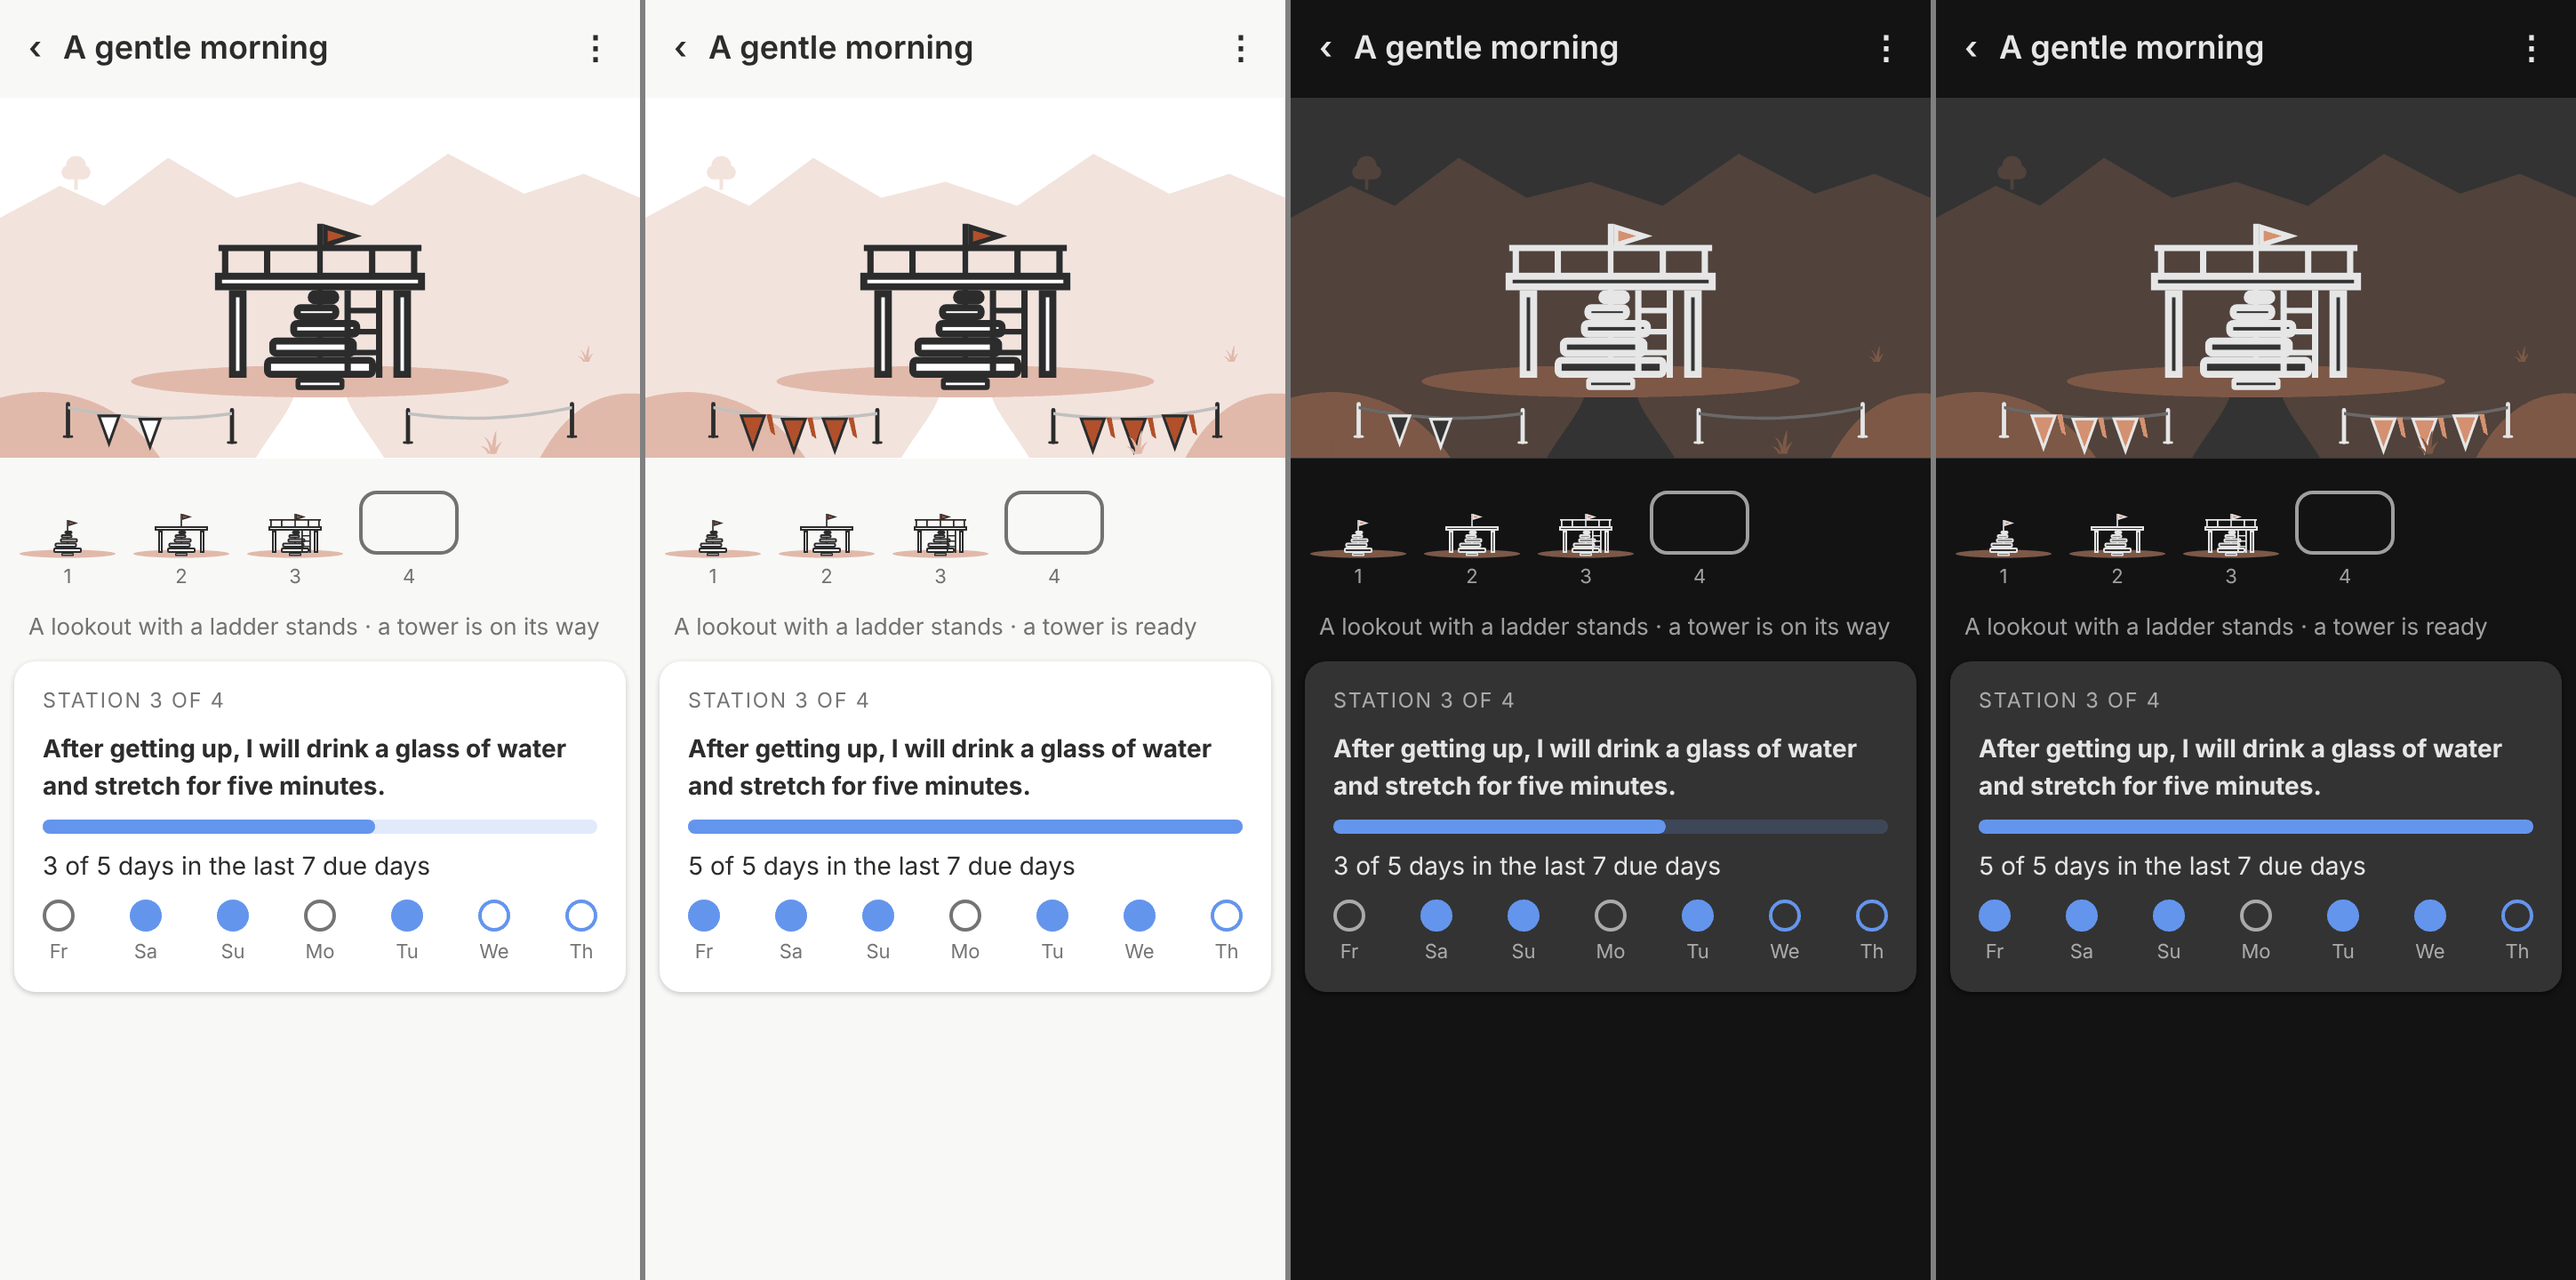
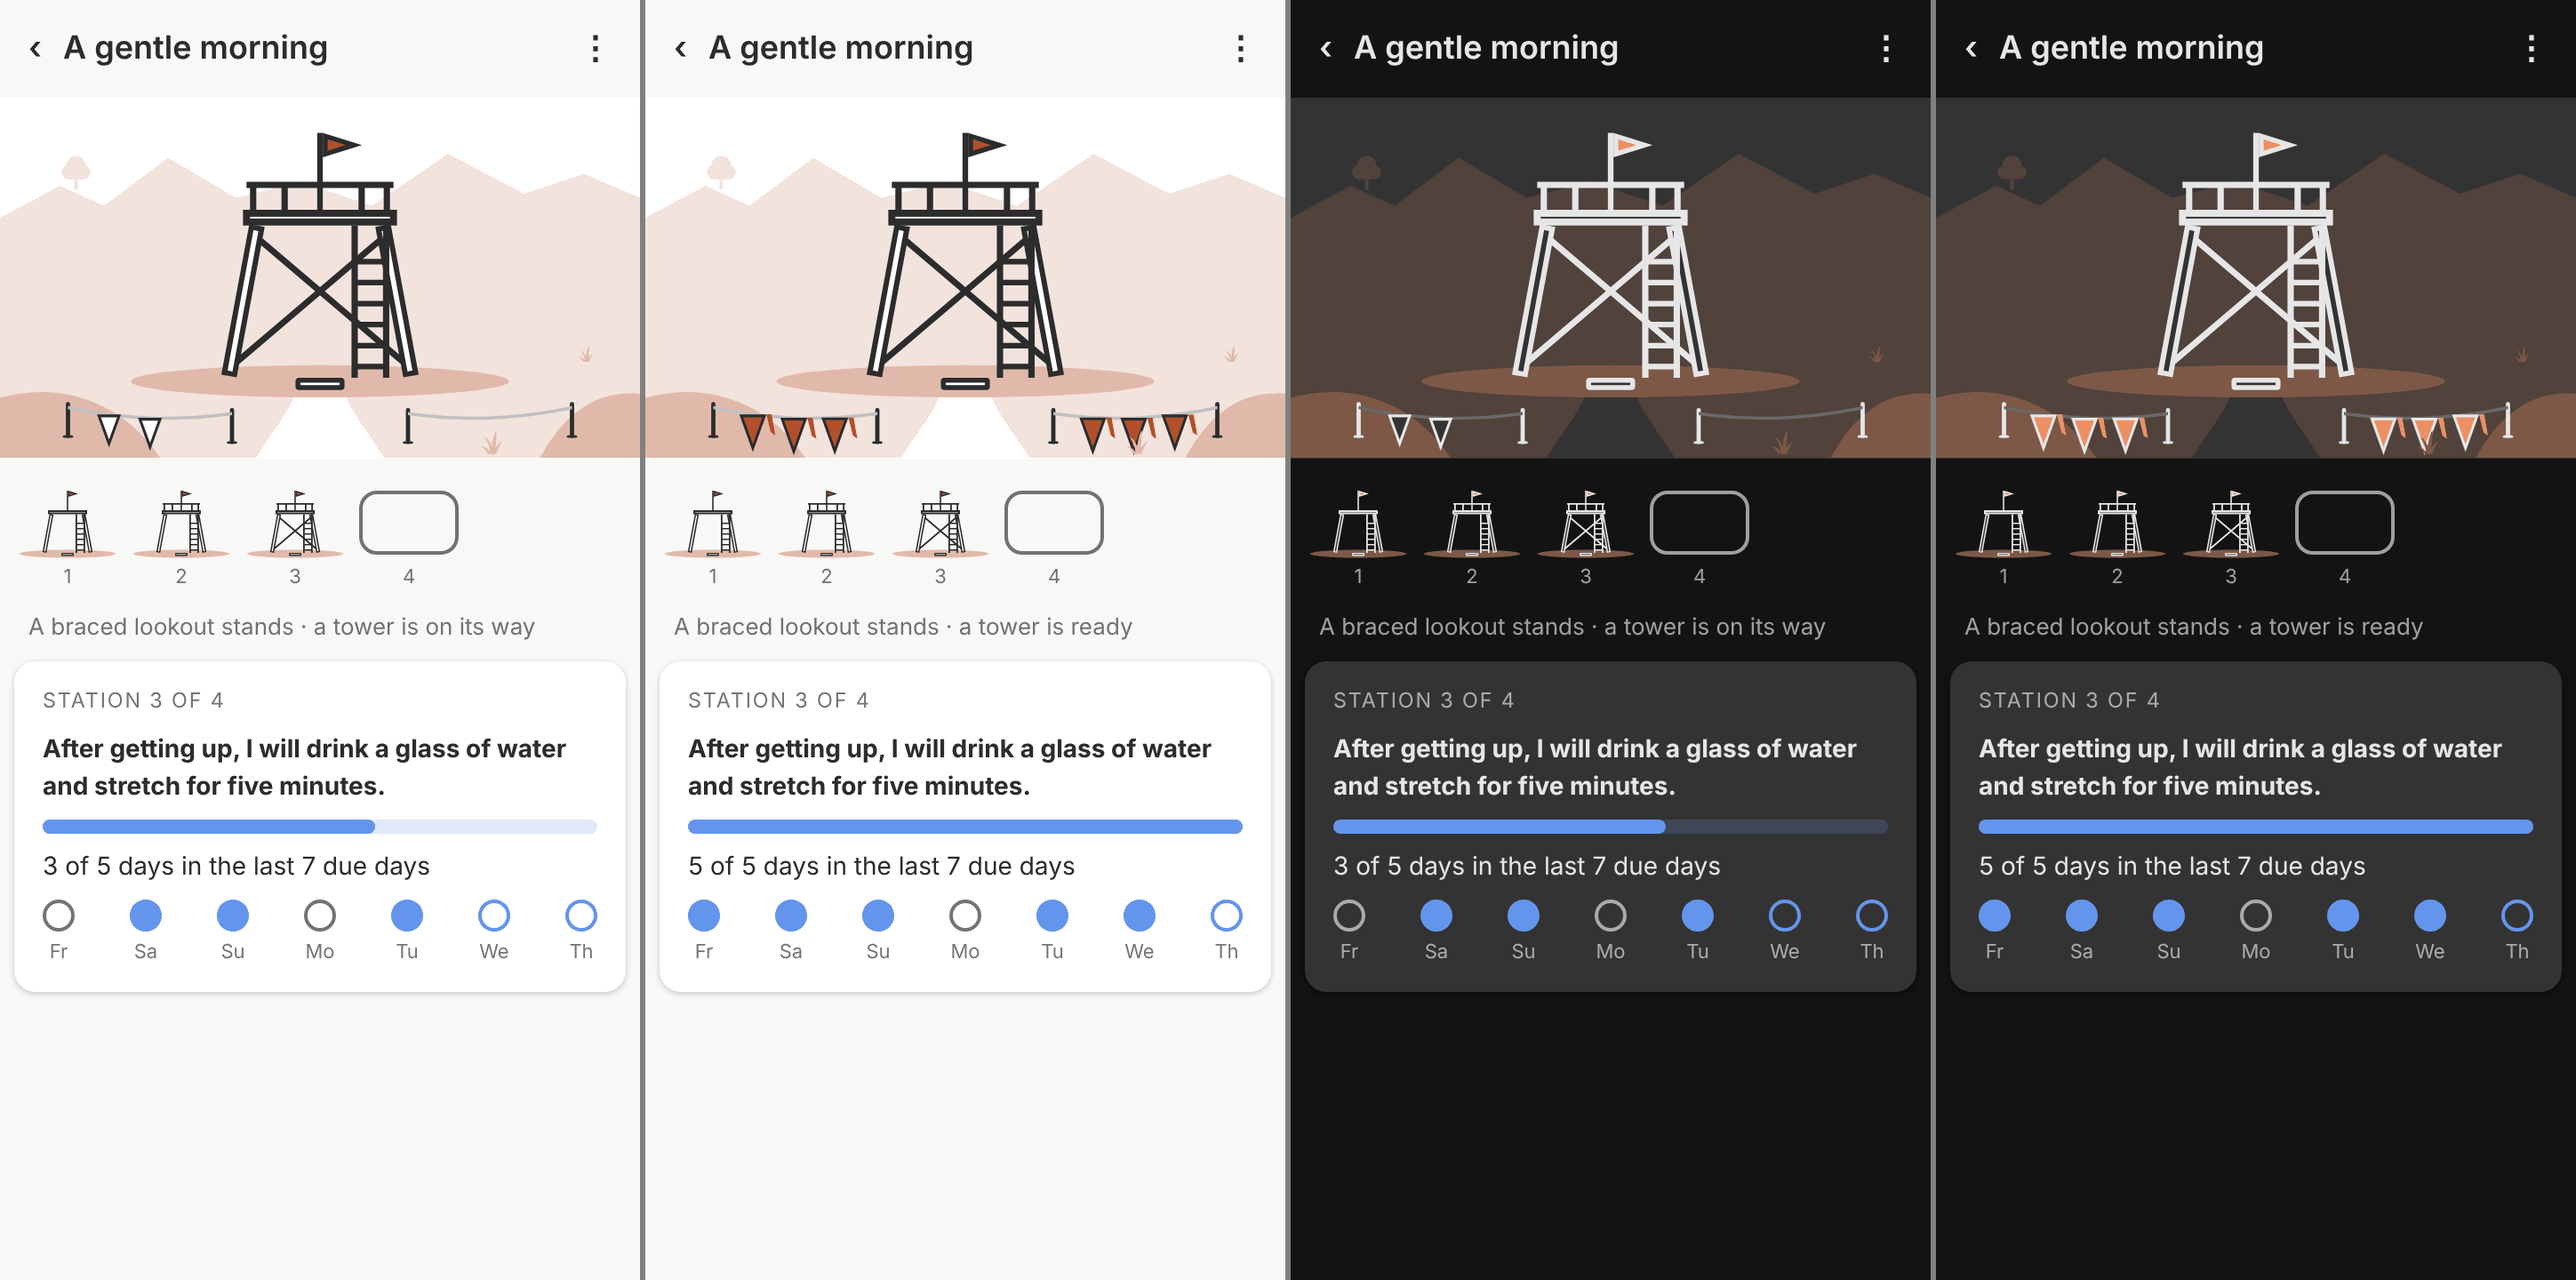
Art: Lookout is one tower that gets better, at one height (#128)
At the owner's word the cairn under a platform goes (the stones had no
job) and the deck no longer rises (a built thing does not grow taller).
Lookout is one wooden lookout tower at one height from version 1: two
posts with a deck and a ladder, then a railing, a cross brace, a second
tier of braces with a crossbeam, a roof; the flag stays on top. Titles:
A lookout / Ein Ausguck, A lookout with a railing / Ein Ausguck mit
Gelaender, A braced lookout / Ein verstrebter Ausguck, A tower / Ein
Turm, A tower with a roof / Ein Turm mit Dach.

Part of #128.

Claude-Session: https://claude.ai/code/session_019PsDpCdRYaLb9552fVk121

diff --git a/docs/log.md b/docs/log.md
@@ -2,7 +2,7 @@
 
 ## 2026-11-15
 
-- **Creation** (#128, Lookout): the ladder Lookout, drawn by `scripts/draw-ladders.mjs` once, version by version, under the rules settled with Garden and Well (history step by step; what stands keeps its place and grows on): a cairn of flat stones laid by hand, a platform on posts resting on it, its railing and a ladder, posts narrowing up to a second deck with a brace and its own ladder (a tower), a roof over the top deck; the flag's pole grows with the building and the flag (the accent) stays on top. Its land setting `setting-heights` (far ridges with peaks, no water) shares Home's path and marker posts; default marker pennants, default hue rust; titles in English and German (Ausguck: Ein Steinmann, Eine Plattform, Ein Ausguck mit Leiter, Ein Turm, Ein Turm mit Dach). The measured checks pass (inside the box, each version at least 5 % more, threshold free, within 4 KB). Checked at 360 × 720 and in the row at 60 × 40, light and dark: a cairn of round stones read as a pile of eggs and is now flat stones; a wide platform with a small second deck read as a pier and the tower now narrows upwards ([journey design](journey-design.md#builds-and-ladders-the-valley-42), `docs/screenshots/ladder-lookout*.png`).
+- **Creation** (#128, Lookout): the ladder Lookout, drawn by `scripts/draw-ladders.mjs` once, version by version: one wooden lookout tower at one height from the start, getting better by what is added: two posts with a deck and a ladder, a railing, a cross brace, a second tier of braces with a crossbeam, a roof; the flag (the accent) stays on top. Its land setting `setting-heights` (far ridges with peaks, no water) shares Home's path and marker posts; default marker pennants, default hue rust; titles in English and German (Ausguck: Ein Ausguck, Ein Ausguck mit Geländer, Ein verstrebter Ausguck, Ein Turm, Ein Turm mit Dach). The measured checks pass (each addition covers at least 5 % more). Rounds with the owner: the issue's cairn under a platform had no job ("why the stones under it?"), so Lookout became one wooden tower that gets better; a tower whose deck rose with each version is dropped, because a built thing does not grow taller ([journey design](journey-design.md#builds-and-ladders-the-valley-42), `docs/screenshots/ladder-lookout*.png`).
 - **Update** (#135, decided by the owner): Garden follows the history rule. The greenhouse is a different technique, so it is parked like the hand pump (rule 8 in [journey design](journey-design.md#builds-and-ladders-the-valley-42), comment on #114); version 4 is an orchard of five fruit trees behind the hedge, version 5 a walled garden: the orchard and beds inside a wall of stones at shoulder height, the trees and plants rising over it, its gate on the threshold stone (titles An orchard / Ein Obstgarten, A walled garden / Ein ummauerter Garten). The measured rules of #136 caught two faults on the way: a plant in the gate covered the threshold stone, and a lower wall made version 5 cover less than 5 % more than the orchard. The generator now also refuses a picture above 4 KB: a first orchard was 4,297 bytes and was written unnoticed ([decision](decisions/ladder-geometry.md)). Checked at 360 × 720 and in the row at 60 × 40, light and dark: a plant inside the gate read as a keyhole and was dropped. Then the owner saw the fruit trees' crowns floating like balls over the hedge and the wall: every tree now stands on a trunk, in a row of five, the trunks ending behind the hedge or wall. The owner then saw the trees jump (one in the middle, one on the right, suddenly five): they now grow from the middle, where the sunflower stood, one in version 3, three in version 4, five in version 5, each keeping its place; at the owner's word they also grow with the garden: a tree is young with one fruit when planted, grown with two a version later, old with three after that, so the first tree is the largest. Last, the owner saw versions 2 to 3 replace things instead of growing them (the sunflower and the back row gone, the plants smaller): Garden is now drawn by one function, version by version, so nothing moves, shrinks or disappears: the bed with the sunflower (1), a bed on each side (2), a hedge and two young trees beside the sunflower (3), those grown and two young ones further out (4), a low wall of stones with its gate (5); titles A row of beds / Eine Reihe von Beeten and A garden with fruit trees / Ein Garten mit Obstbäumen. To fit 4 KB, runs of plain shapes in one role are written as one path and straight runs as steps along one axis; no other picture changed (pixel comparison against `main`). The measuring now reads arcs and no longer lets rings of opposite direction cancel each other ([decision](decisions/ladder-geometry.md)). Then, at the owner's word, the sunflower went: Garden is drawn from elements with states, each entering at its smallest state and growing one state per version (plants seedling → grown → ripe, a stake bare → climber → ripe, trees sapling → young → grown → old, the hedge low → full), and the fruit, shown only on what is ripe, is the one accent. Choosing what grows at a place is #138 (sub-issue of #114).
 - **Decision** (owner): ladder pictures are built with a geometry library and measured ([decision](decisions/ladder-geometry.md)). `clipper2-ts` 2.0.1 (BSL-1.0, development only, [dependencies](dependencies.md)) builds outlines by offsetting, the well house's cut-out by subtraction and the stonework clipped to its wall (`scripts/ladder-geometry.mjs`); `scripts/ladder-checks.mjs` measures every version before `scripts/draw-ladders.mjs` writes (inside the box, at least 5 % more area than the one before, the threshold stone free), and `packages/engine/test/art-geometry.test.ts` measures the committed pictures. A pixel comparison at four times the build size showed no visible change except the well house's stones, which now stop exactly at the arch, and the checks' first findings, now fixed: Garden 5's hedge reached past the box, Well 1's front stones below the base line. Crossing (retired by #128) is only warned about: its plank bridge covers 1 % more than the log ([journey design](journey-design.md#builds-and-ladders-the-valley-42)).
 - **Creation** (#128, Well): the ladder Well, drawn by `scripts/draw-ladders.mjs`: a water hole with its heap of earth and spade, a well sweep over a low stone curb, a round well with a winch, the well under a roof, a stone well house with the well under its arch; each whole and larger than the one before, on Home's threshold stone. Water in the builds is `tint-strong`; the accent is the bucket. Its land setting `setting-green` (a village green: a far ridge with roofs, no water) shares Home's path and marker posts; default marker lanterns, default hue water blue; titles in English and German. Checked at 360 × 720 and in the row at 60 × 40, light and dark: the well wall read as a crate and now has a round rim around its water. The fifth version was first a fountain; the owner rejected it (a fountain is another use than a well), so it is a well house: a closed house with a door read as a second Home house and a low arch as a garage, so its arch is tall and wide; the owner then saw the well standing in front of the house, so it is smaller, set back on the floor of a shaded arch, and the front wall is drawn over it with the arch cut out; then the owner found the stones no longer read as stones, so every stone wall (the well in versions 3 to 5, the well house's whole front wall, whose courses stop at the arch's curve) is drawn as courses of stones with staggered joints (`masonry`); last, the owner found the line broken (versions 1 and 2 were a spring and a trough under a pump, and a pump comes after a dug well): the ladder now follows how water is drawn from a dug well, from a water hole to a well sweep, a winch, a roof and a well house. **Decision** (owner): a ladder follows history step by step (rule 8 in [journey design](journey-design.md#builds-and-ladders-the-valley-42)); a new technique joining what stands (a hand pump at the well house) and several things at one place stay parked (comment on #114) ([journey design](journey-design.md#builds-and-ladders-the-valley-42), `docs/screenshots/ladder-well*.png`). Lookout follows after the owner's judgement.

diff --git a/docs/journey-design.md b/docs/journey-design.md
@@ -152,7 +152,7 @@ journey):
    on both banks, as thick as the surface. A build the way leads to (a
    home or a garden) has one: the threshold stone (x = 53–67,
    y = 74–77.5) in front of the fire, the tent's opening and each door,
-   of the garden's bed and the walled garden's gate, or of the cairn, or of the water hole and
+   of the garden's bed and the walled garden's gate, or of the lookout, or of the water hole and
    each well, where the path ends.
    `ways` lists them; the checker requires a corner of every version and
    of the setting's path at each way point.
@@ -190,12 +190,11 @@ journey):
    forked post with a stone and the bucket on a pole) over a low stone
    curb, a round well with a winch, the well under a roof, a stone well
    house with the well inside, under its arch (owner: a spring and a pump
-   break the line, a fountain is another use). Lookout is drawn once,
-   like Garden, and only adds and grows: a cairn of flat stones laid by
-   hand (1), a platform on posts resting on it (2), its railing and a
-   ladder (3), posts narrowing up to a second deck with a brace and its
-   own ladder, a tower (4), a roof over the top deck (5); the flag's pole
-   grows with it and the flag, the accent, stays on top.
+   break the line, a fountain is another use). Lookout is one wooden
+   lookout tower at one height from the start (a built thing does not
+   grow taller, owner): two posts with a deck and a ladder, then a
+   railing, a cross brace, a second tier of braces with a crossbeam, a
+   roof; the flag, the accent, stays on top.
 8. **History, step by step** (owner, 2026-11-15). A ladder follows one
    real line of development for one use; each version is what people
    actually built next, within a world before electricity, so the row
